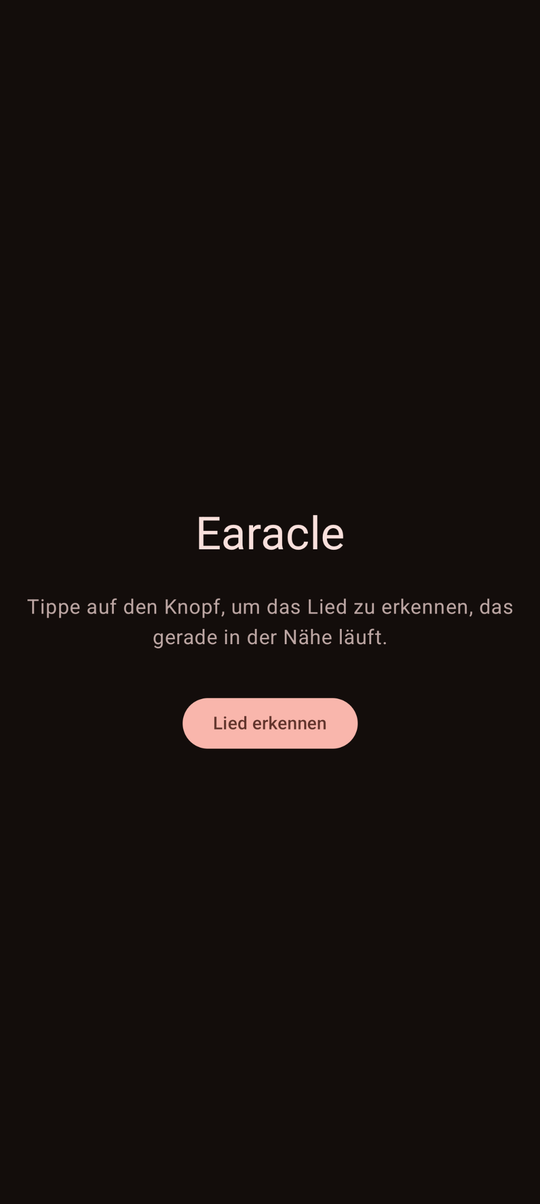
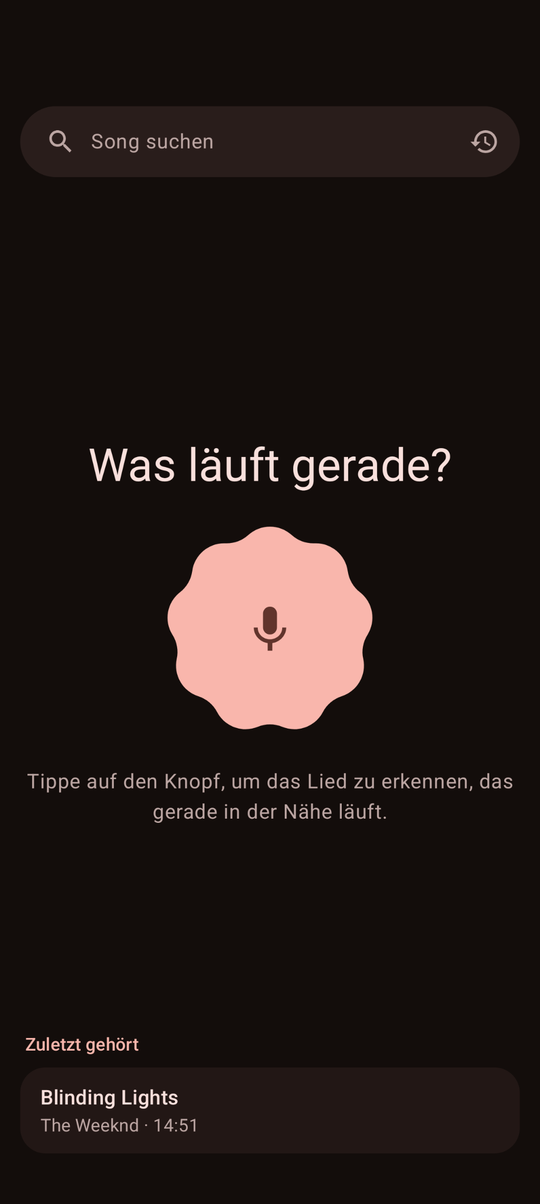
README: screenshots of the new start screen and the listening ring
Taken by the owner on the phone (v0.9.0 test build), scaled to 540 px wide and
saved without metadata.

Claude-Session: https://claude.ai/code/session_01PQ1tumR8xGMNi7EgbpYjTH

diff --git a/README.md b/README.md
@@ -8,12 +8,14 @@ example a radio), recognizes the song and shows its lyrics line by line, in sync
 The interface is in German and English and follows the phone's language.
 
 <p align="center">
-  <img src="docs/screenshots/start.png" alt="Start screen with the &quot;Recognize song&quot; button" width="270">
+  <img src="docs/screenshots/start.png" alt="Start screen: search bar, the headline &quot;What's playing?&quot;, the cookie-shaped microphone button and the recently heard songs" width="220">
   &nbsp;
-  <img src="docs/screenshots/lyrics.png" alt="A recognized song with its lyrics; the current line is highlighted" width="270">
+  <img src="docs/screenshots/listening.png" alt="While listening: a wavy ring around the microphone fills in the 12 seconds" width="220">
+  &nbsp;
+  <img src="docs/screenshots/lyrics.png" alt="A recognized song with its lyrics; the current line is highlighted" width="220">
 </p>
 
-<p align="center"><sub>Start screen and a recognized song (German interface). The other lyric lines are blurred
+<p align="center"><sub>Start screen, listening and a recognized song (German interface). The other lyric lines are blurred
 here because the lyrics are copyrighted; in the app they are readable.</sub></p>
 
 ## Status
